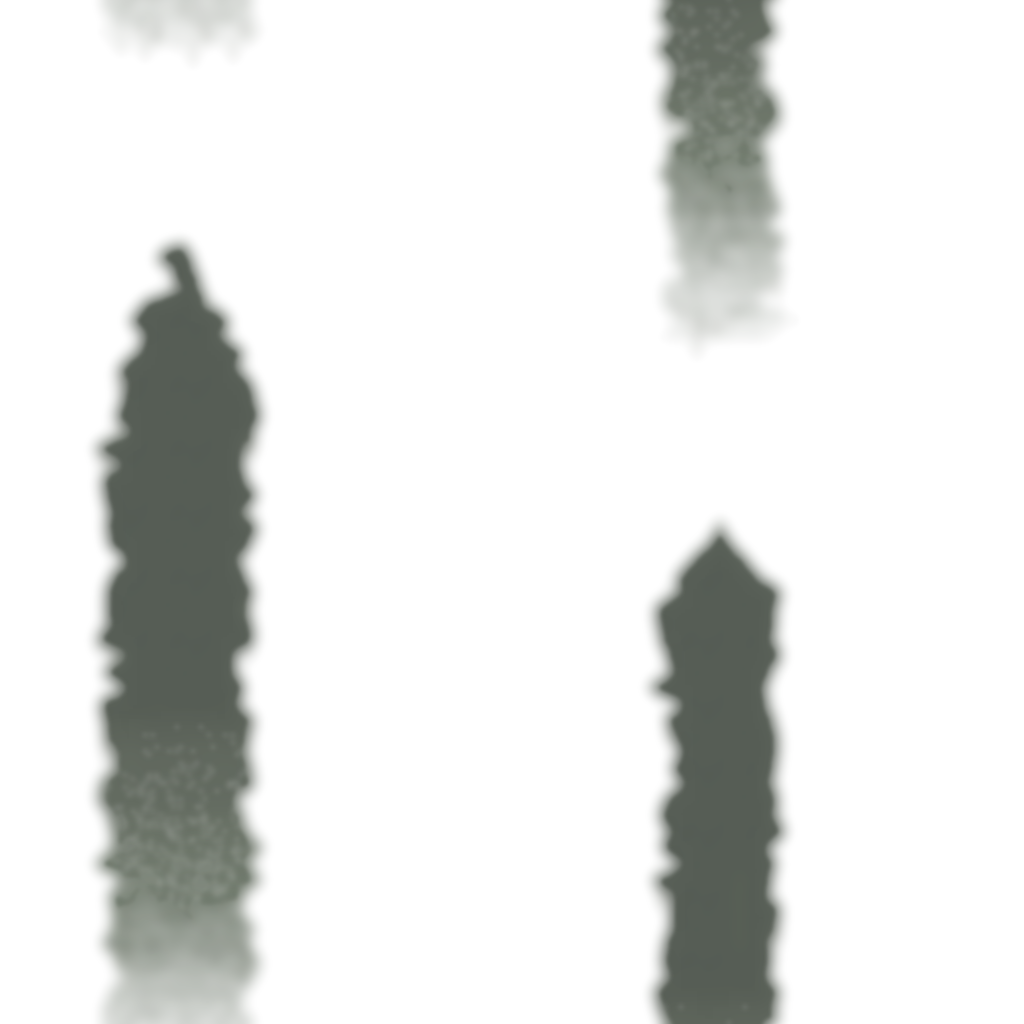
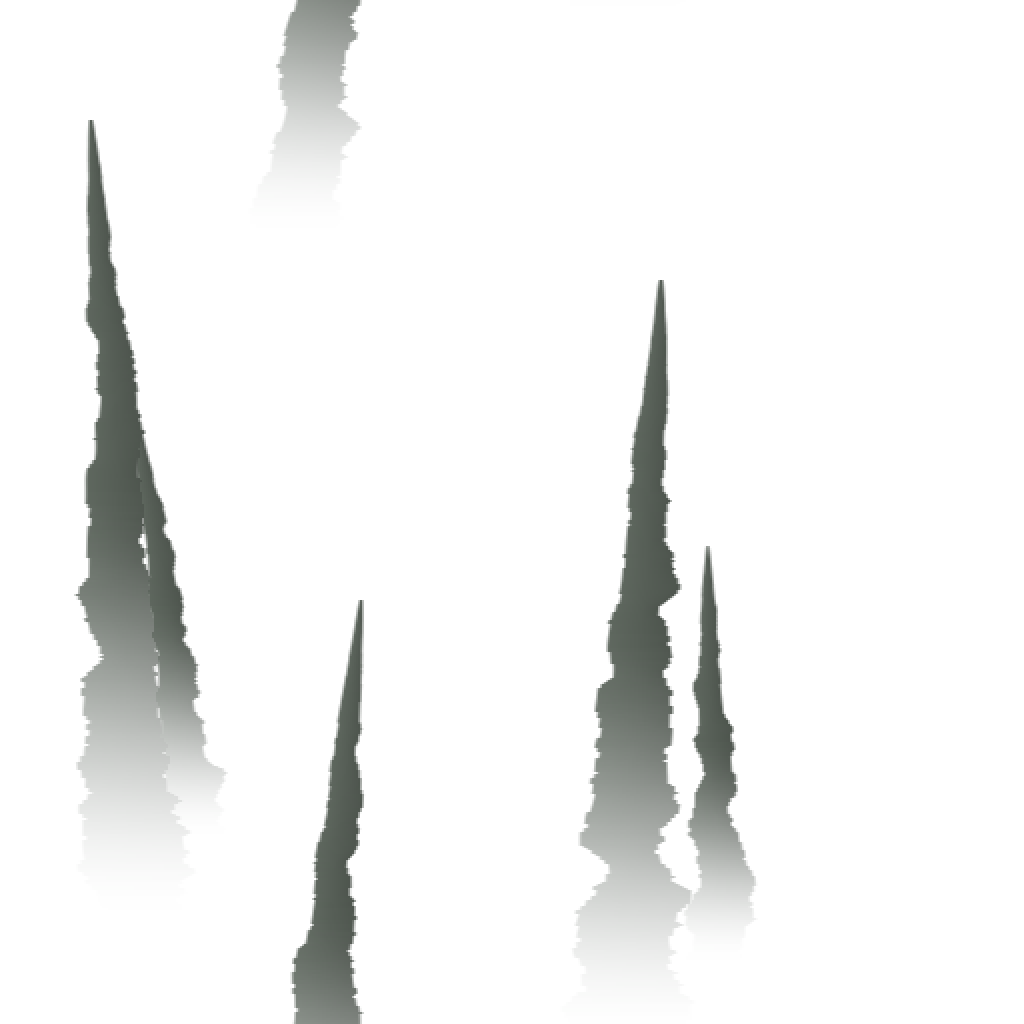
Agulhas de rocha pontudas no fundo do Purgatório e nenhuma no hub: as colunas de topo arredondado de longe.png (agulhas distantes) e de pilares.png (pilares mais perto) viram agulhas/estalagmites afiladas, com ponta fina, silhueta recortada e assimétrica (degraus e lascas diferentes de cada lado, in

diff --git a/tools/arte_agulhas_purgatorio.py b/tools/arte_agulhas_purgatorio.py
@@ -1,0 +1,136 @@
+"""Agulhas de rocha pontudas no fundo do Purgatório, no lugar das colunas de topo arredondado.
+
+As colunas de longe.png (agulhas distantes) e de pilares.png (pilares mais perto) tinham corpo cilíndrico liso e
+cabeça arredondada. Aqui elas são trocadas por agulhas/estalagmites afiladas: ponta fina, silhueta recortada e
+assimétrica (cada lado com seus degraus e lascas, inclinação e curva próprias, às vezes com uma agulha menor grudada
+do lado), clara do lado da luz (esquerda) e escura do outro, borda macia de 1 px e o pé sumindo na névoa aos poucos.
+Arte 2x (cada pixel vira 2x2), sem pontilhado, e as duas texturas continuam emendando nos dois sentidos.
+- longe.png: o fundo de névoa com os fachos de luz diagonais só depende de x + y (é o mesmo em cada diagonal), então
+  ele é refeito sem as colunas antigas (por diagonal, o tom da névoa) e as agulhas novas são pintadas por cima.
+- longe_hub.png: o mesmo fundo, só névoa e fachos, sem agulhas (o HubPurgatorio é o lado de fora, com a serra).
+- pilares.png: transparente, com as agulhas maiores e mais escuras, que somem na névoa embaixo.
+Parte das imagens do git de antes desta tarefa (ORIGEM), então rodar de novo dá o mesmo resultado.
+Gerador de arte (não mexe no jogo.json):  python3 tools/arte_agulhas_purgatorio.py
+"""
+import io, os, subprocess
+import numpy as np
+from PIL import Image
+
+RAIZ = os.path.dirname(os.path.dirname(os.path.abspath(__file__)))
+PASTA = 'assets/purgatorio/fundo/'
+ORIGEM = '819f6e5'
+N = 512                    # lado da textura em pixels de arte (1024 no jogo)
+
+# agulhas de longe: (x da ponta, y da ponta, altura, meia largura no pé, inclinação, com agulha do lado)
+LONGE = [(20, 10, 230, 13, 0.10, False), (58, 160, 260, 17, -0.06, True), (150, 40, 250, 15, 0.05, False),
+         (215, 300, 220, 12, -0.10, False), (300, 90, 280, 18, 0.08, True), (365, 250, 200, 11, -0.04, False),
+         (430, 120, 270, 16, -0.08, True), (480, 330, 230, 14, 0.12, False)]
+LONGE_COR = (104, 113, 105)    # cor das agulhas distantes (perto da névoa, 128;138;128)
+LONGE_FORCA = 0.75             # o quanto a agulha cobre a névoa no corpo
+PILARES = [(45, 60, 400, 24, 0.07, True), (180, 300, 330, 20, -0.09, False), (330, 140, 380, 26, -0.05, True)]
+PILAR_COR = (86, 94, 86)       # cor dos pilares (como antes)
+LUZ = 0.10                     # quanto o lado esquerdo clareia (e o direito escurece)
+SUMICO = (0.45, 1.0)           # de que fração da altura até onde o pé some na névoa
+BORDA = 0.9                    # meia largura da borda macia (px de arte)
+
+
+def original(nome):
+    dados = subprocess.run(['git', '-C', RAIZ, 'show', f'{ORIGEM}:{PASTA}{nome}'], capture_output=True, check=True).stdout
+    return np.array(Image.open(io.BytesIO(dados)).convert('RGBA')).astype(float)
+
+
+def ruido1d(n, comp, rng, oitavas=3):
+    out = np.zeros(n)
+    amp, tot = 1.0, 0.0
+    for _ in range(oitavas):
+        k = rng.standard_normal(n // comp + 3)
+        x = np.arange(n) / comp
+        i = x.astype(int)
+        f = (1 - np.cos((x - i) * np.pi)) / 2
+        out += amp * (k[i] * (1 - f) + k[i + 1] * f)
+        tot += amp
+        amp *= 0.5
+        comp = max(comp // 2, 1)
+    return out / tot
+
+
+def agulha(cx, ty, alt, larg, inclina, rng):
+    """cobertura (0-1), luz (-1 a 1) e sumiço (0-1) de uma agulha, na textura N x N com emenda nos dois sentidos."""
+    cob = np.zeros((N, N))
+    luz = np.zeros((N, N))
+    fade = np.zeros((N, N))
+    ys = np.arange(alt)
+    t = ys / alt
+    w = larg * (0.04 + 0.96 * t ** 0.85)                       # ponta fina, alarga até o pé
+    degrau_e = np.round(ruido1d(alt, 14, rng) * 3) / 3          # degraus e lascas de cada lado (assimétricos)
+    degrau_d = np.round(ruido1d(alt, 11, rng) * 3) / 3
+    we = np.maximum(w * (1 + 0.28 * degrau_e * np.clip(t * 4, 0, 1)), 0.4)
+    wd = np.maximum(w * (1 + 0.28 * degrau_d * np.clip(t * 4, 0, 1)), 0.4)
+    meio = cx + inclina * ys + larg * 0.3 * ruido1d(alt, 60, rng) * t
+    f = np.clip((t - SUMICO[0]) / (SUMICO[1] - SUMICO[0]), 0, 1)
+    some = 1 - f * f * (3 - 2 * f)
+    xs = np.arange(N)
+    for j in range(alt):
+        y = int(ty + j) % N
+        dx = (xs - meio[j] + N / 2) % N - N / 2                 # distância com a emenda horizontal
+        c = np.clip((np.minimum(dx + we[j], wd[j] - dx) + BORDA) / (2 * BORDA), 0, 1)   # borda macia
+        u = np.clip(dx / np.maximum(np.where(dx < 0, we[j], wd[j]), 0.5), -1, 1)
+        nova = c > cob[y]
+        cob[y] = np.where(nova, c, cob[y])
+        luz[y] = np.where(nova, -u, luz[y])
+        fade[y] = np.where(nova, some[j], fade[y])
+    return cob, luz, fade
+
+
+def agulhas(lista, rng):
+    cob = np.zeros((N, N))
+    luz = np.zeros((N, N))
+    fade = np.zeros((N, N))
+    for cx, ty, alt, larg, inclina, irma in lista:
+        pecas = [(cx, ty, alt, larg, inclina)]
+        if irma:                                                 # agulha menor grudada do lado
+            lado = rng.choice([-1, 1])
+            pecas.append((cx + lado * larg * 0.9, ty + alt * 0.35, int(alt * 0.55), larg * 0.6, inclina + lado * 0.08))
+        for p in pecas:
+            c, l, fd = agulha(*p, rng)
+            m = c * fd > cob * fade
+            cob = np.where(m, c, cob)
+            luz = np.where(m, l, luz)
+            fade = np.where(m, fd, fade)
+    return cob, luz, fade
+
+
+def salva(arte, nome):
+    out = np.repeat(np.repeat(np.clip(arte, 0, 255).round().astype(np.uint8), 2, 0), 2, 1)
+    Image.fromarray(out, 'RGBA').save(os.path.join(RAIZ, PASTA, nome), optimize=True)
+    print('salvo', nome)
+
+
+def main():
+    rng = np.random.default_rng(213)
+
+    # longe: névoa + fachos por diagonal (x + y), sem as colunas antigas
+    a = original('longe.png')[::2, ::2]
+    y, x = np.mgrid[0:N, 0:N]
+    s = (x + y) % N
+    fundo = np.zeros((N, N, 3))
+    for k in range(3):
+        canal = a[..., k]
+        tom = np.array([np.percentile(canal[s == d], 85) for d in range(N)])
+        fundo[..., k] = tom[s]
+    opaco = np.full((N, N, 1), 255.0)
+    salva(np.concatenate([fundo, opaco], -1), 'longe_hub.png')
+
+    cob, luz, fade = agulhas(LONGE, rng)
+    cor = np.array(LONGE_COR, float) * (1 + LUZ * luz)[..., None]
+    t = (cob * fade * LONGE_FORCA)[..., None]
+    salva(np.concatenate([fundo + (cor - fundo) * t, opaco], -1), 'longe.png')
+
+    # pilares: transparentes, mais escuros
+    cob, luz, fade = agulhas(PILARES, rng)
+    cor = np.array(PILAR_COR, float) * (1 + LUZ * luz)[..., None]
+    salva(np.concatenate([cor, (cob * fade * 255)[..., None]], -1), 'pilares.png')
+
+
+if __name__ == '__main__':
+    main()

diff --git a/tools/t212_agulhas_fora_do_hub.py b/tools/t212_agulhas_fora_do_hub.py
@@ -1,0 +1,53 @@
+"""Tarefa 212: sem agulhas/pilares de rocha no HubPurgatorio (lado de fora, com a serra).
+
+As agulhas de longe.png e pilares.png foram repintadas pontudas (tools/arte_agulhas_purgatorio.py) e continuam na fase.
+No hub:
+- sai a instância de bg_purgatorio_pilares;
+- a instância de bg_purgatorio_longe é trocada, no mesmo lugar da lista (a serra continua logo depois dela), com a
+  mesma posição, tamanho, camada e zOrder, por uma de bg_purgatorio_longe_hub: objeto novo (TiledSprite, pasta
+  cenario) com assets/purgatorio/fundo/longe_hub.png, a mesma névoa com os fachos de luz, sem agulhas. A variável
+  parallax_extra dele começa com o valor atual da de bg_purgatorio_longe, e o evento do hub que anda com o fundo
+  ganha as mesmas duas ações de XOffset/YOffset para ele.
+Os objetos bg_purgatorio_longe e bg_purgatorio_pilares, a fase Purgatorio, portais, placar, loja, mercador e serra
+não mudam.
+Rodar uma vez:  python3 tools/t212_agulhas_fora_do_hub.py
+"""
+from gd_mig import *
+
+IMG = 'assets/purgatorio/fundo/longe_hub.png'
+NOVO = 'bg_purgatorio_longe_hub'
+HUB = 'HubPurgatorio'
+
+
+def migra(d):
+    ids = Ids('t212')
+    longe = objeto(d, 'bg_purgatorio_longe')
+    extra = next(v['value'] for v in longe['variables'] if v['name'] == 'parallax_extra')
+    poe_recursos(d, [IMG])
+    poe_objeto(d, tiled(ids, NOVO, IMG, longe['width'], longe['height'], [var(ids, NOVO, 'parallax_extra', extra)]),
+               'cenario')
+
+    c = cena(d, HUB)
+    insts = c['instances']
+    pilares = [i for i in insts if i['name'] == 'bg_purgatorio_pilares']
+    for i in pilares:
+        insts.remove(i)
+    velhas = [i for i in insts if i['name'] == 'bg_purgatorio_longe']
+    for i in velhas:
+        k = insts.index(i)
+        nova = dict(i, name=NOVO, persistentUuid=ids(f'inst/{HUB}/{k}'))
+        insts[k] = nova
+    print(f'hub: {len(pilares)} pilares removido(s), {len(velhas)} longe trocado(s)')
+
+    for e in todos(c['events']):
+        acoes = e.get('actions') or []
+        for a in list(acoes):
+            t = a['type']['value']
+            if t in ('TiledSpriteObject::XOffset', 'TiledSpriteObject::YOffset') and a['parameters'][0] == 'bg_purgatorio_longe':
+                p = [NOVO] + [x.replace('bg_purgatorio_longe.', NOVO + '.') for x in a['parameters'][1:]]
+                if not any(b['type']['value'] == t and b['parameters'][0] == NOVO for b in acoes):
+                    acoes.insert(acoes.index(a) + 1, X(t, *p))
+
+
+if __name__ == '__main__':
+    roda(migra, lambda d: objeto(d, NOVO) is not None, 't212')

diff --git a/tests/test_hubs.py b/tests/test_hubs.py
@@ -58,7 +58,7 @@ class Hubs(unittest.TestCase):
         self.assertEqual(self.var('Paraiso', 'proxima_cena'), 'Hub')     # o valor do editor fica
 
     def test_hubs_novos_com_o_reino_certo(self):
-        for nome, tiles, fundo, cor in [('HubPurgatorio', 'tiles_purgatorio', 'bg_purgatorio_longe', (128, 138, 128)),
+        for nome, tiles, fundo, cor in [('HubPurgatorio', 'tiles_purgatorio', 'bg_purgatorio_longe_hub', (128, 138, 128)),
                                         ('HubParaiso', 'tiles_ceu', 'bg_paraiso_nuvens', (172, 196, 232))]:
             c = self.cenas[nome]
             nomes = [i['name'] for i in c['instances']]
